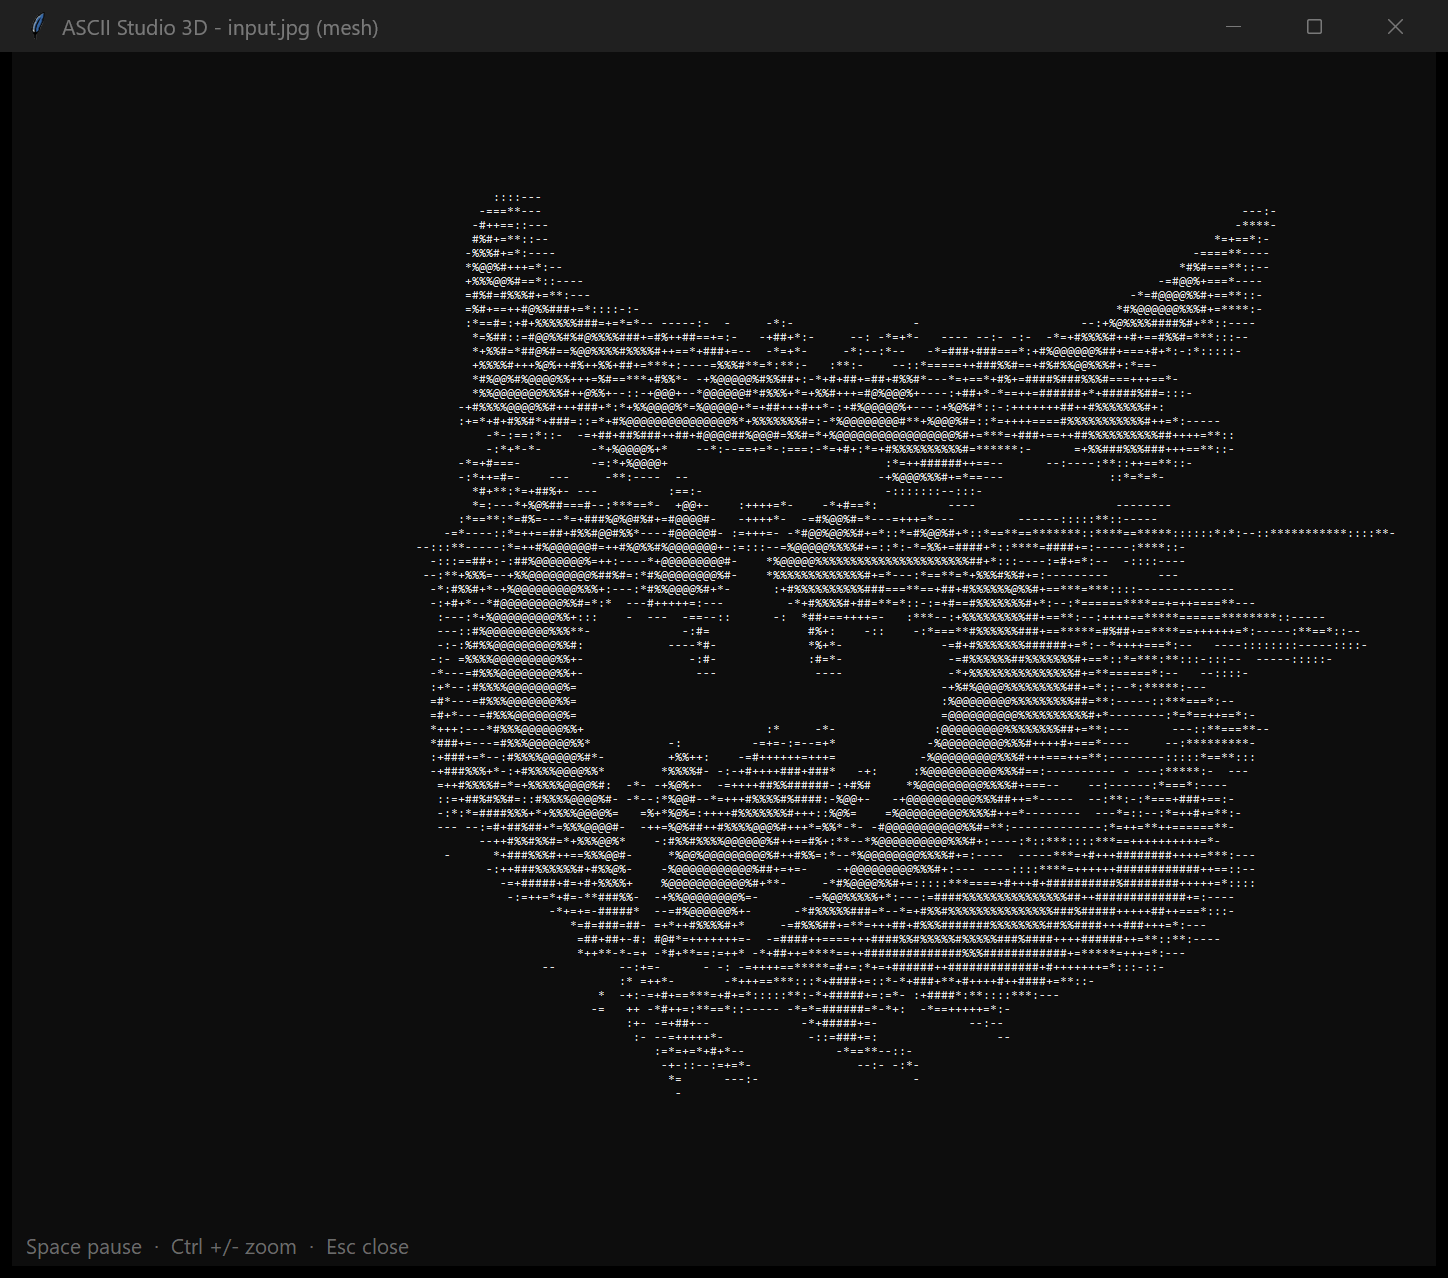
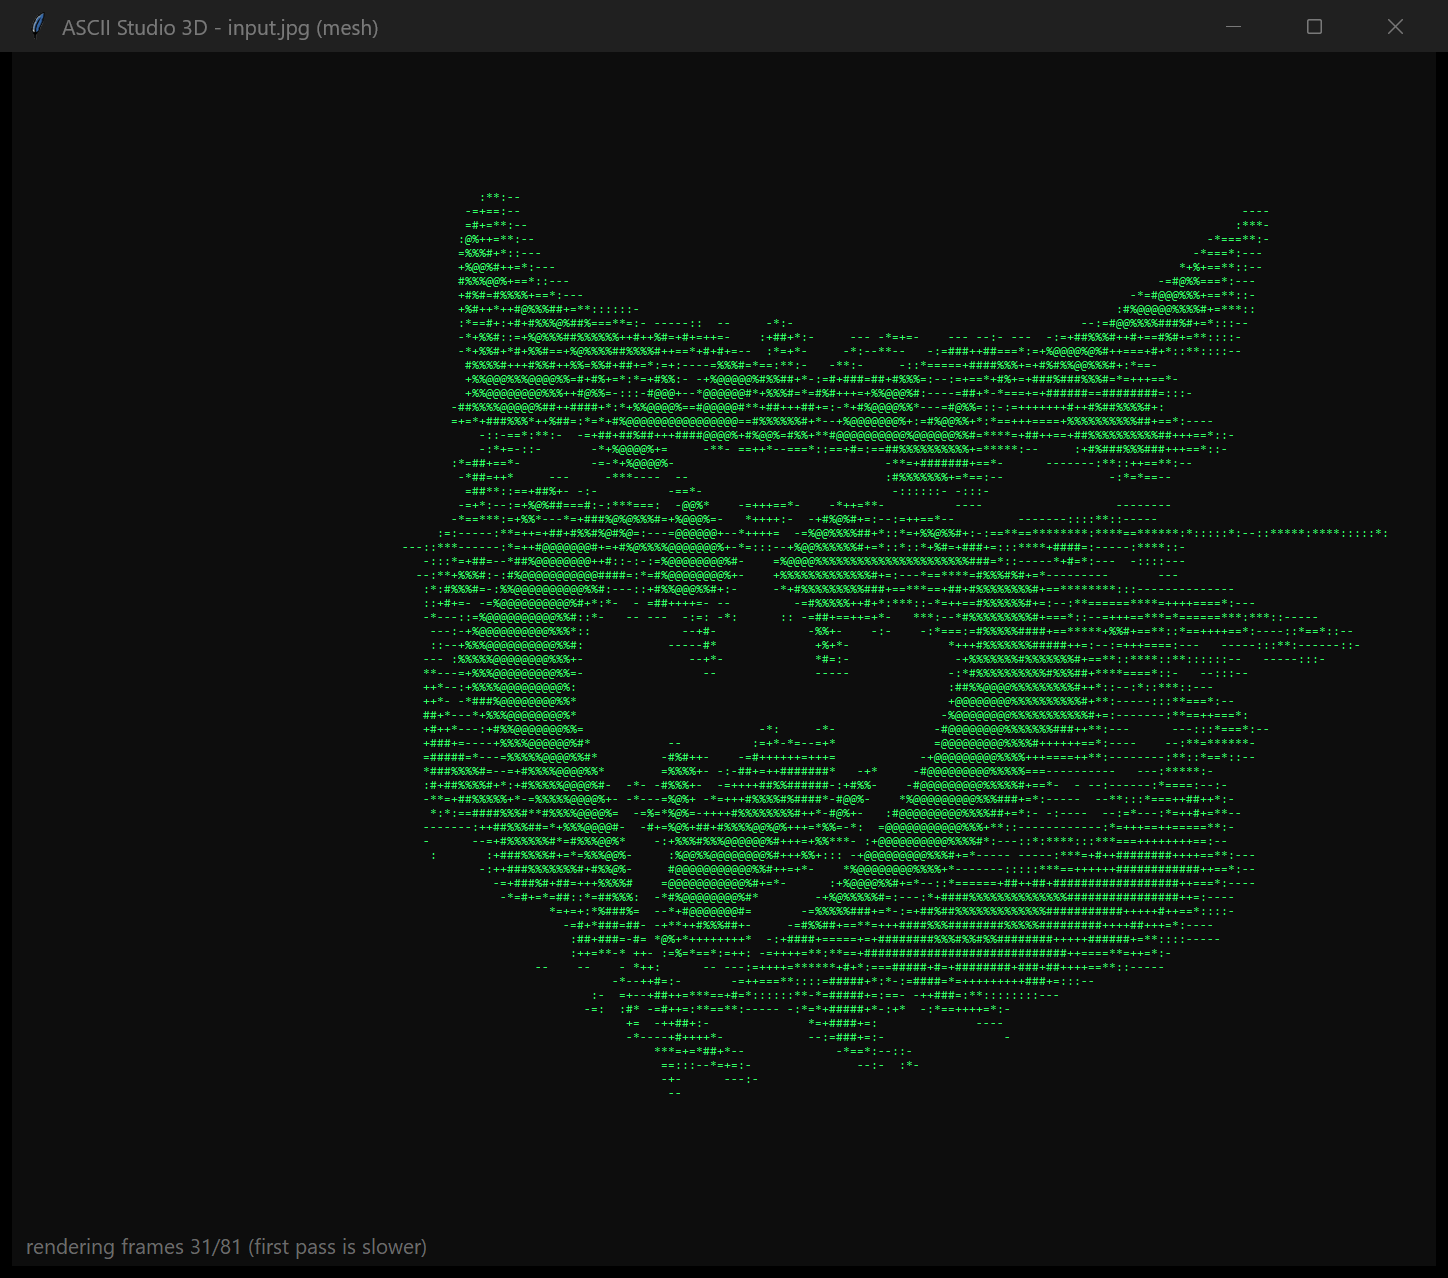
Added effects.py

Changed region(s): [[0.2797, 0.1526, 0.9323, 0.8239], [0.0311, 0.946, 0.2797, 1.0]]

diff --git a/ascii-3d/src/viewer.py b/ascii-3d/src/viewer.py
@@ -6,15 +6,21 @@ high-DPI screens, Ctrl +/- zoom) is the same as ascii-static's.
 Frames are rendered when first needed and then cached by angle. A swing
 passes through each angle twice per cycle, so after the first sweep every
 frame comes from the cache and the animation plays at full speed.
+
+Optional effects (see effects.py): a typed/decoded intro, occasional glitch
+bursts, and a retro green or amber text colour that flickers slightly.
 """
 
 from __future__ import annotations
 
+import random
 import sys
 import time
 import tkinter as tk
 from collections.abc import Callable
 from tkinter import font as tkfont
+
+from effects import COLOURS, Effects, glitch, intro_frames
 
 BACKGROUND = "#0d0d0d"
 FOREGROUND = "#e8e8e8"
@@ -51,19 +57,60 @@ def _use_dark_title_bar(root: tk.Tk) -> None:
         pass
 
 
+def _active_monitor(root: tk.Tk) -> tuple[int, int, int, int]:
+    """(left, top, width, height) of the usable area of the monitor the mouse is on.
+
+    Tk only knows the size of the main screen. With several monitors, ask
+    Windows which monitor contains the mouse pointer, so the window opens on
+    the screen you're working on. The "work area" leaves out the taskbar.
+    """
+    if sys.platform == "win32":
+        try:
+            import ctypes
+            from ctypes import wintypes
+
+            class MONITORINFO(ctypes.Structure):
+                _fields_ = [
+                    ("cbSize", wintypes.DWORD),
+                    ("rcMonitor", wintypes.RECT),
+                    ("rcWork", wintypes.RECT),
+                    ("dwFlags", wintypes.DWORD),
+                ]
+
+            point = wintypes.POINT()
+            ctypes.windll.user32.GetCursorPos(ctypes.byref(point))
+            monitor = ctypes.windll.user32.MonitorFromPoint(point, 2)  # 2 = nearest monitor
+
+            info = MONITORINFO()
+            info.cbSize = ctypes.sizeof(MONITORINFO)
+            if ctypes.windll.user32.GetMonitorInfoW(monitor, ctypes.byref(info)):
+                work = info.rcWork
+                return work.left, work.top, work.right - work.left, work.bottom - work.top
+        except (AttributeError, OSError):
+            pass
+
+    return 0, 0, root.winfo_screenwidth(), root.winfo_screenheight()
+
+
 def play_in_window(
     render_frame: Callable[[float], str],
     angles,
     fps: int = 20,
     title: str = "ASCII Studio 3D",
     font_family: str = "Consolas",
+    effects: Effects | None = None,
 ) -> None:
     """Open a window and loop the animation until it's closed.
 
     render_frame(angle) returns one ASCII frame as a string.
+    effects: which extras to show; None means a plain window.
     Keys: Space pauses, Ctrl +/- zooms, Escape closes.
     """
     _enable_high_dpi()
+
+    effects = effects or Effects(typed_intro=False, decode_intro=False, glitches=False, colour=None)
+    rng = random.Random()
+    normal_colour, dim_colour = COLOURS.get(effects.colour, (FOREGROUND, FOREGROUND))
 
     angles = [float(a) for a in angles]
     cache: dict[float, str] = {}
@@ -82,15 +129,20 @@ def play_in_window(
     unique = len({round(a, 4) for a in angles})
 
     root = tk.Tk()
+    # Keep the window hidden until it's fully built and positioned, so it
+    # doesn't flash up in a corner first and then jump to the centre.
+    root.withdraw()
     root.title(title)
     root.configure(bg=BACKGROUND)
     _use_dark_title_bar(root)
 
-    # The biggest font size at which the whole frame fits on screen.
+    screen_x, screen_y, screen_w, screen_h = _active_monitor(root)
+
+    # The biggest font size at which the whole frame fits on that monitor.
     display_font = tkfont.Font(root=root, family=font_family, size=14)
     while display_font.cget("size") > 4 and (
-        display_font.measure("M") * columns > root.winfo_screenwidth() * 0.9
-        or display_font.metrics("linespace") * rows > root.winfo_screenheight() * 0.8
+        display_font.measure("M") * columns > screen_w * 0.9
+        or display_font.metrics("linespace") * rows > screen_h * 0.85
     ):
         display_font.configure(size=display_font.cget("size") - 1)
 
@@ -101,7 +153,7 @@ def play_in_window(
         height=rows,
         wrap="none",
         bg=BACKGROUND,
-        fg=FOREGROUND,
+        fg=normal_colour,
         highlightthickness=0,
         borderwidth=0,
         padx=12,
@@ -113,8 +165,17 @@ def play_in_window(
     status = tk.Label(root, bg=BACKGROUND, fg=DIM, anchor="w", padx=12, pady=4)
     status.pack(fill="x")
 
-    state = {"index": 0, "paused": False}
     delay_ms = max(1, round(1000 / fps))
+
+    # Intro frames are played before the animation starts.
+    intro = intro_frames(first, effects, fps, rng)
+
+    state = {
+        "index": 0,
+        "paused": False,
+        "next_glitch": time.perf_counter() + rng.uniform(*effects.glitch_every),
+        "glitch_left": 0,  # frames of the current glitch still to show
+    }
 
     def show(frame: str) -> None:
         text.configure(state="normal")
@@ -127,9 +188,27 @@ def play_in_window(
         # schedule the next call so the frame rate stays steady.
         started = time.perf_counter()
 
-        if not state["paused"]:
-            show(frame_for(angles[state["index"] % len(angles)]))
+        if intro:
+            show(intro.pop(0))
+        elif not state["paused"]:
+            frame = frame_for(angles[state["index"] % len(angles)])
             state["index"] += 1
+
+            # Start a glitch burst when it's time, then show glitched copies
+            # of the frames for a few ticks before snapping back.
+            if effects.glitches and started >= state["next_glitch"]:
+                state["glitch_left"] = rng.randint(*effects.glitch_frames)
+                state["next_glitch"] = started + rng.uniform(*effects.glitch_every)
+
+            if state["glitch_left"] > 0:
+                frame = glitch(frame, rng)
+                state["glitch_left"] -= 1
+
+            show(frame)
+
+        # CRT-style flicker: now and then the text is drawn a little dimmer.
+        if effects.colour:
+            text.configure(fg=dim_colour if rng.random() < 0.08 else normal_colour)
 
         if len(cache) < unique:
             status.configure(text=f"rendering frames {len(cache)}/{unique} (first pass is slower)")
@@ -151,15 +230,22 @@ def play_in_window(
     root.bind("<Control-minus>", lambda _e: zoom(-1))
     root.bind("<Escape>", lambda _e: root.destroy())
 
-    show(first)
+    show(intro.pop(0) if intro else first)
 
-    # Centre the window on screen, nudged up a little to clear the taskbar.
+    # Centre the window on the monitor the mouse is on.
     root.update_idletasks()
-    x = (root.winfo_screenwidth() - root.winfo_reqwidth()) // 2
-    y = max(0, (root.winfo_screenheight() - root.winfo_reqheight()) // 2 - 30)
+    x = screen_x + max(0, (screen_w - root.winfo_reqwidth()) // 2)
+    y = screen_y + max(0, (screen_h - root.winfo_reqheight()) // 2)
     root.geometry(f"+{x}+{y}")
 
+    # Bring the window to the front. Windows doesn't let a program jump in
+    # front of the window you're using, but "always on top" is allowed, so
+    # switch it on for a moment and then off again.
+    root.update_idletasks()  # apply the position before showing
+    root.deiconify()  # show it now that it's in place
+    root.attributes("-topmost", True)
     root.lift()
     root.focus_force()
+    root.after(500, lambda: root.attributes("-topmost", False))
     root.after(delay_ms, tick)
     root.mainloop()

diff --git a/ascii-3d/src/effects.py b/ascii-3d/src/effects.py
@@ -1,0 +1,133 @@
+"""Fun text effects for the animation window: typing, decoding and glitches.
+
+Every function here takes a finished ASCII frame (a string with one line per
+row) and returns changed copies of it. They only change which characters are
+shown, so the 3D rendering is untouched.
+"""
+
+from __future__ import annotations
+
+import random
+from dataclasses import dataclass
+
+# Characters used for noise: blocky symbols that look like a corrupted screen.
+NOISE = "!<>/\\|{}[]=+*#%@$&?"
+
+CURSOR = "█"
+
+# Text colour for each retro theme: (normal, slightly dimmer for flicker).
+COLOURS = {
+    "green": ("#33ff66", "#29cc52"),
+    "amber": ("#ffb000", "#cc8d00"),
+}
+
+
+@dataclass
+class Effects:
+    """Which effects the window uses (set from the switches in main.py)."""
+
+    typed_intro: bool = True
+    decode_intro: bool = True
+    glitches: bool = True
+    colour: str | None = "green"  # "green", "amber" or None for plain white
+
+    intro_seconds: float = 3.0  # length of each intro stage
+    glitch_every: tuple[float, float] = (3.0, 7.0)  # seconds between glitches
+    glitch_frames: tuple[int, int] = (4, 6)  # how long a glitch lasts
+
+
+def scramble(frame: str, rng: random.Random, amount: float = 1.0) -> str:
+    """Replace a fraction `amount` of the non-space characters with noise.
+
+    Spaces are kept, so the outline of the subject stays visible.
+    """
+    return "".join(
+        rng.choice(NOISE) if ch not in " \n" and rng.random() < amount else ch
+        for ch in frame
+    )
+
+
+def typed_frames(frame: str, steps: int) -> list[str]:
+    """The frame being typed out from the top in `steps` frames.
+
+    Each step reveals a few more rows; a cursor sits at the end of the last
+    row typed. Rows not reached yet are left blank.
+    """
+    lines = frame.split("\n")
+    rows_per_step = max(1, -(-len(lines) // steps))  # ceiling division
+    frames = []
+
+    for shown in range(rows_per_step, len(lines) + rows_per_step, rows_per_step):
+        shown = min(shown, len(lines))
+        visible = lines[:shown]
+        # Cursor right after the last character typed; pad back to full width.
+        visible[-1] = (visible[-1].rstrip() + CURSOR).ljust(len(visible[-1]))
+        frames.append("\n".join(visible + [""] * (len(lines) - shown)))
+
+    return frames
+
+
+def decode_frames(frame: str, rng: random.Random, steps: int) -> list[str]:
+    """Noise that "locks in" to the real frame, character by character.
+
+    Every non-space character gets a random step at which it settles. Before
+    that it shows a different random noise character on every frame; after
+    it, the real character. The last frame is exactly the original.
+    """
+    lock_step = [rng.randrange(steps) for _ in frame]
+    frames = []
+
+    for step in range(steps):
+        frames.append(
+            "".join(
+                ch if ch in " \n" or lock_step[i] <= step else rng.choice(NOISE)
+                for i, ch in enumerate(frame)
+            )
+        )
+
+    return frames
+
+
+def intro_frames(frame: str, effects: Effects, fps: int, rng: random.Random) -> list[str]:
+    """The startup sequence for the first frame.
+
+    With both intros on, the rows are typed out as noise and then the noise
+    decodes into the image. Either one also works on its own.
+    """
+    steps = max(1, round(effects.intro_seconds * fps))
+    frames = []
+
+    if effects.typed_intro:
+        to_type = scramble(frame, rng) if effects.decode_intro else frame
+        frames += typed_frames(to_type, steps)
+
+    if effects.decode_intro:
+        frames += decode_frames(frame, rng, steps)
+
+    return frames
+
+
+def glitch(frame: str, rng: random.Random) -> str:
+    """One glitched copy of a frame.
+
+    - a band of rows slides sideways (each row rotated by a few columns),
+    - a pair of rows swaps places,
+    - a little noise is sprinkled over the image.
+    The rows keep their length, so the frame doesn't jump around.
+    """
+    lines = frame.split("\n")
+    count = len(lines)
+
+    # Slide a band of 2-6 neighbouring rows left or right.
+    start = rng.randrange(count)
+    shift = rng.choice([-1, 1]) * rng.randint(2, 8)
+    for row in range(start, min(count, start + rng.randint(2, 6))):
+        # Rotating a string: the last `shift` characters move to the front
+        # (a negative shift moves the first ones to the back instead).
+        lines[row] = lines[row][-shift:] + lines[row][:-shift]
+
+    # Swap two random rows.
+    a, b = rng.randrange(count), rng.randrange(count)
+    lines[a], lines[b] = lines[b], lines[a]
+
+    return scramble("\n".join(lines), rng, amount=0.03)

diff --git a/ascii-3d/src/main.py b/ascii-3d/src/main.py
@@ -41,6 +41,12 @@ from pipeline import (
 # ascii-3d/assets/ and write its file name here (a full path also works).
 IMAGE = "input.jpg"
 
+# Fun extras for the animation window. Set to False (or None) to turn off.
+TYPED_INTRO = True       # the first frame is typed out row by row
+DECODE_INTRO = False      # random characters "lock in" to the image
+GLITCHES = False          # every few seconds, rows slide and characters flicker
+RETRO_COLOUR = None   # "green", "amber", or None for plain white
+
 log = logging.getLogger("ascii3d")
 
 
@@ -168,6 +174,7 @@ def animate(scene: Scene, mode: str, config: Config, args: argparse.Namespace, o
         save_animation(frames, out_dir / f"{mode}_animation.{args.animate}", config.fps, config.animation_font_size)
 
     if not args.no_window:
+        from effects import Effects
         from viewer import play_in_window
 
         wide = dataclasses.replace(config, ascii_width=config.window_ascii_width)
@@ -178,6 +185,7 @@ def animate(scene: Scene, mode: str, config: Config, args: argparse.Namespace, o
                 fps=config.fps,
                 title=f"ASCII Studio 3D - {config.image_path.name} ({mode})",
                 font_family=font_family(),
+                effects=Effects(TYPED_INTRO, DECODE_INTRO, GLITCHES, RETRO_COLOUR),
             )
         except Exception as error:  # e.g. no display available
             log.warning("Could not open the window: %s", error)

diff --git a/ascii-3d/GUIDE.md b/ascii-3d/GUIDE.md
@@ -26,7 +26,7 @@ Settings that aren't on the command line (depth, light direction, swing angle, s
 
 ### 1. The overall flow
 
-`run()` in `src/main.py`, lines 186–238 is the whole program: load the photo, build the 3D scene, save still images, animate.
+`run()` in `src/main.py`, lines 194–246 is the whole program: load the photo, build the 3D scene, save still images, animate.
 
 `src/pipeline.py` connects the steps. Look at `estimate_depth()` in `src/pipeline.py`, lines 63–76, `build_depth_scene()` in `src/pipeline.py`, lines 93–124 and `render_view()` in `src/pipeline.py`, lines 165–209. Every render mode goes through `render_view`, and both ways of building a scene (depth or TripoSR) produce the same `Scene`, so all modes work with either.
 
@@ -138,8 +138,13 @@ The **hybrid** mode in `render_view` adds the lit surface and these lines togeth
 ### 13. Animation and the window
 
 - `swing_angles()` in `src/animation.py`, lines 33–41: the relief has no back, so it rocks ±30° along a sine instead of spinning.
-- `play_in_window()` in `src/viewer.py`, lines 54–165 renders frames when first needed and caches them by angle, so after the first swing everything plays smoothly.
+- `play_in_window()` in `src/viewer.py`, lines 95–251 renders frames when first needed and caches them by angle, so after the first swing everything plays smoothly.
 - `save_animation()` in `src/animation.py`, lines 95–114 writes a GIF or MP4.
+- `src/effects.py` adds the fun extras, switched on and off at the top of `main.py`:
+  - `typed_frames()` in `src/effects.py`, lines 50–67 reveals the first frame row by row, with a cursor.
+  - `decode_frames()` in `src/effects.py`, lines 70–88 gives every character a random moment to "lock in" from noise.
+  - `glitch()` in `src/effects.py`, lines 110–133 slides a band of rows sideways, swaps two rows and adds a little noise. The window shows it for a few frames every few seconds.
+  - `COLOURS` sets the green or amber text, and the window dims it at random moments for a CRT flicker.
 
 ### 14. TripoSR (optional)
 

diff --git a/README.md b/README.md
@@ -71,7 +71,7 @@ Shown left to right: photo, model output, subject mask, final depth.
 
 ![Render and its ASCII version](ascii-3d/images/07_ascii.png)
 
-**8. Animation window.** `python ascii-3d/src/main.py` opens a window where the subject swings slowly from side to side.
+**8. Animation window.** `python ascii-3d/src/main.py` opens a window where the subject swings slowly from side to side. For fun, it types itself in, decodes from noise, glitches now and then, and glows like an old green terminal (each effect has a switch at the top of `main.py`).
 
 ![Animation window](ascii-3d/images/08_window.png)
 
